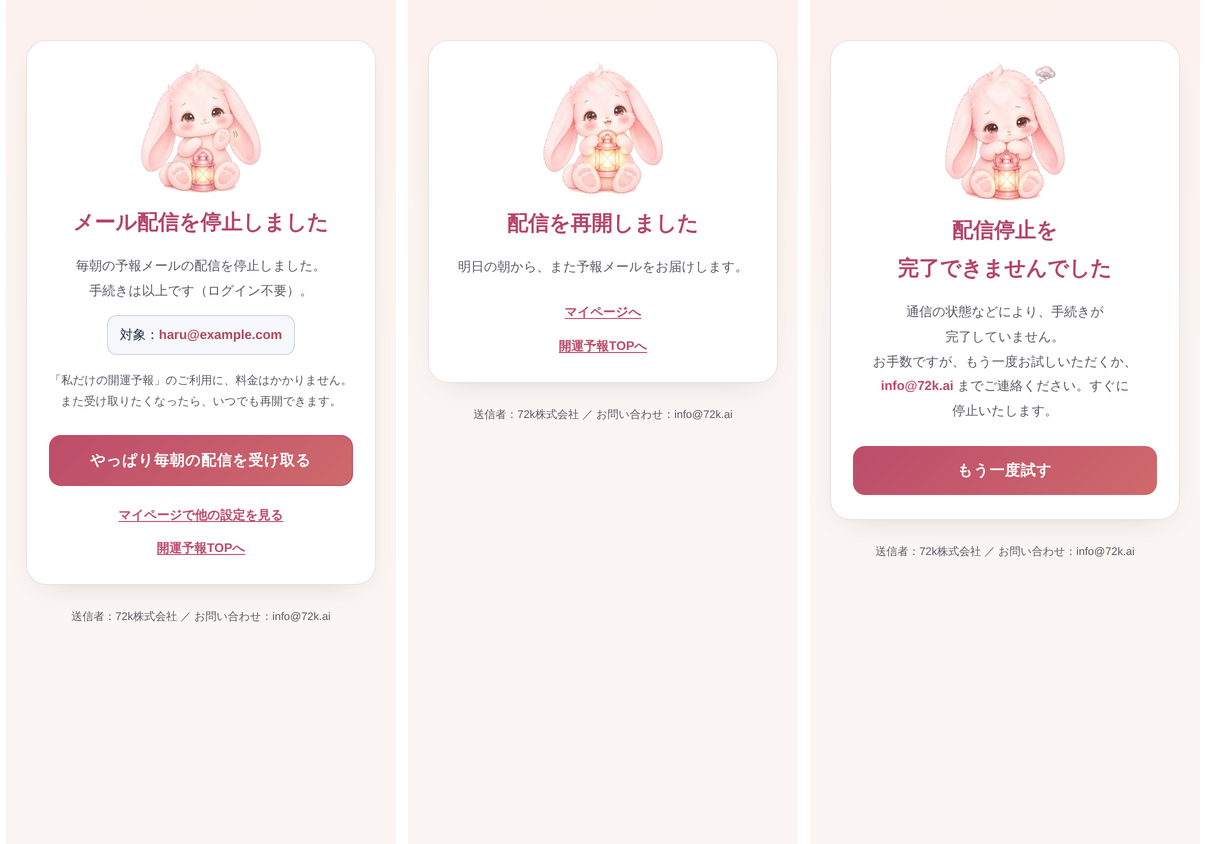
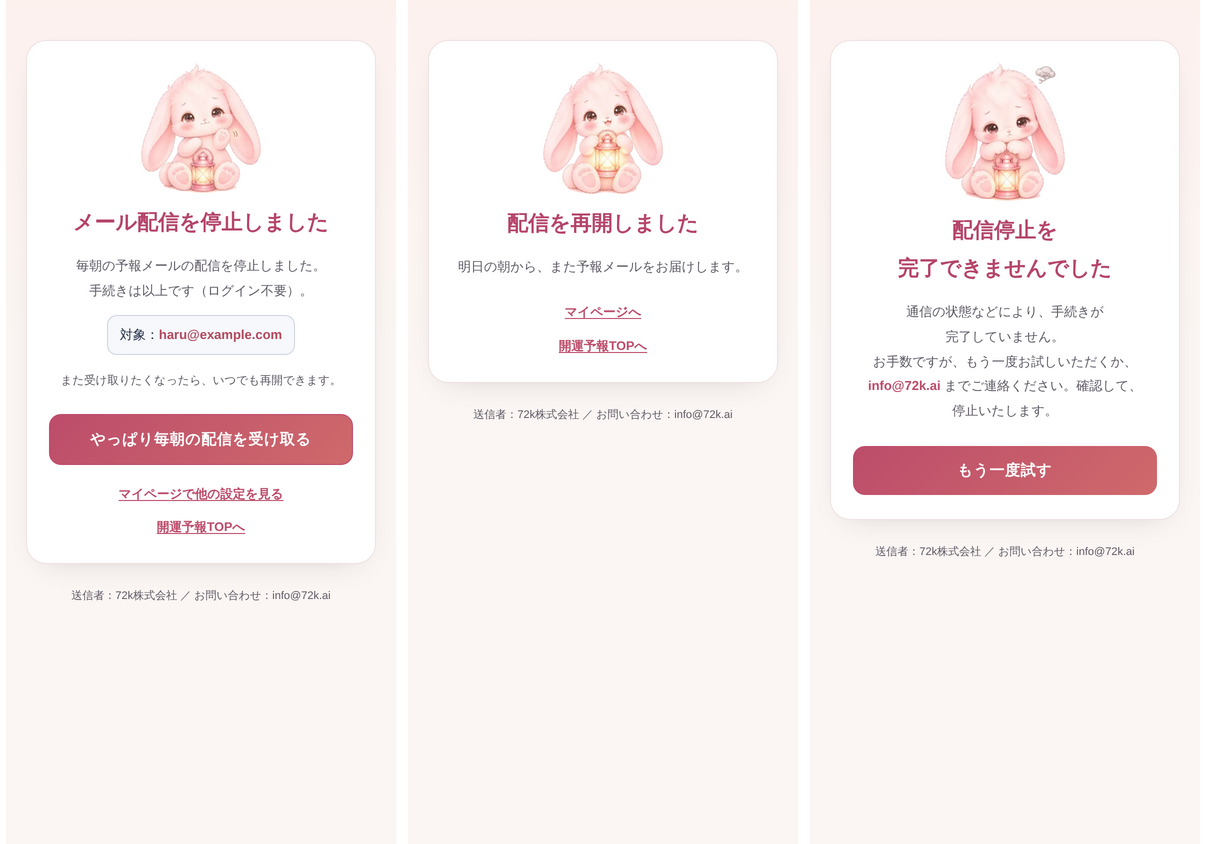
docs: 配信停止の画面の言葉を2か所直した（資料・ZIP・見本を更新）
Claude-Session: https://claude.ai/code/session_01VAAXUWaNn8kZjmChCXNaq8

Changed region(s): [[0.0307, 0.4313, 0.3068, 0.7393], [0.7056, 0.4313, 0.9204, 0.4621]]

diff --git a/docs/【エンジニアさんへ】登録・ログイン・配信停止の色の直し_1118.md b/docs/【エンジニアさんへ】登録・ログイン・配信停止の色の直し_1118.md
@@ -119,6 +119,14 @@ h1 .gd{position:absolute;right:-4px;bottom:-10px;width:112px;height:auto;pointer
 `<button type="button" class="submit" onclick="recoverSend()">確認コードを送る</button>`
 ※ 本番のログイン画面を作りかえていて、この画面やボタンがもうない場合は、そのままで大丈夫です。似たボタンがあれば、同じように短くしてください。
 
+## 言葉の直し：配信停止の画面（`unsubscribe.html`・11月19日）
+オーナー決定で、2か所の言葉を直してください。
+1. 停止したあと（`#stopped`）の小さな文：「『私だけの開運予報』のご利用に、料金はかかりません。」の1行を消す（止めた人に料金の話をしなくてよいため）。のこすのは「また受け取りたくなったら、いつでも再開できます。」だけ
+```html
+<div class="note">また受け取りたくなったら、いつでも再開できます。</div>
+```
+2. うまくいかなかったとき（`#failed`）：「すぐに停止いたします。」→「**確認して、停止いたします。**」（「すぐに」は約束しすぎになるため）
+
 ## 確かめてほしいこと
 - 青空の背景や雲が、どこにも残っていないこと（スクロールした下のほうも）
 - オレンジの文字・枠が残っていないこと（エラーの赤い文字は、そのままでOK）

diff --git a/docs/みんなの相性表_決まったこと.md b/docs/みんなの相性表_決まったこと.md
@@ -241,5 +241,9 @@
 ## ログインの「アドレスを直す」画面のボタン（11/19 オーナー決定）
 - 「このアドレスに確認コードを送る」→「確認コードを送る」に短くする（スマホで2行になるため）
 
+## 配信停止の画面の言葉（11/19 オーナー決定）
+- 停止したあとの「『私だけの開運予報』のご利用に、料金はかかりません。」を消す
+- うまくいかなかったときの「すぐに停止いたします。」→「確認して、停止いたします。」
+
 ## まだ決まっていないこと
 - ほかのサイトに貼ってある共有バナーの場所（ローズレッドで作り直すため）
